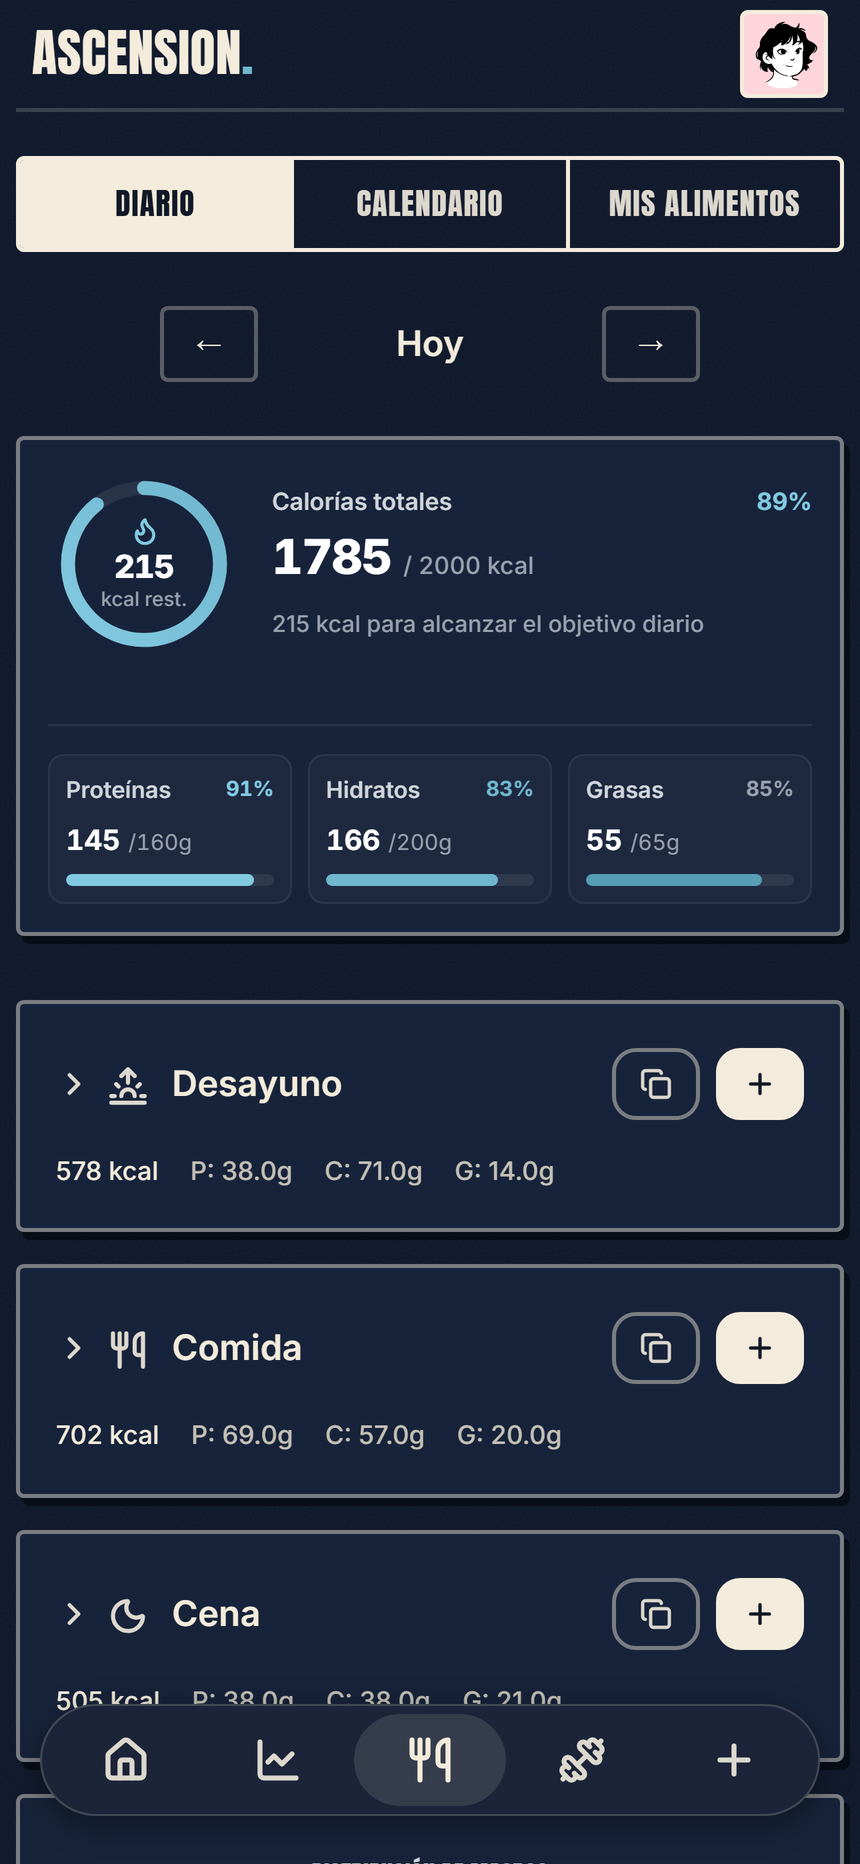
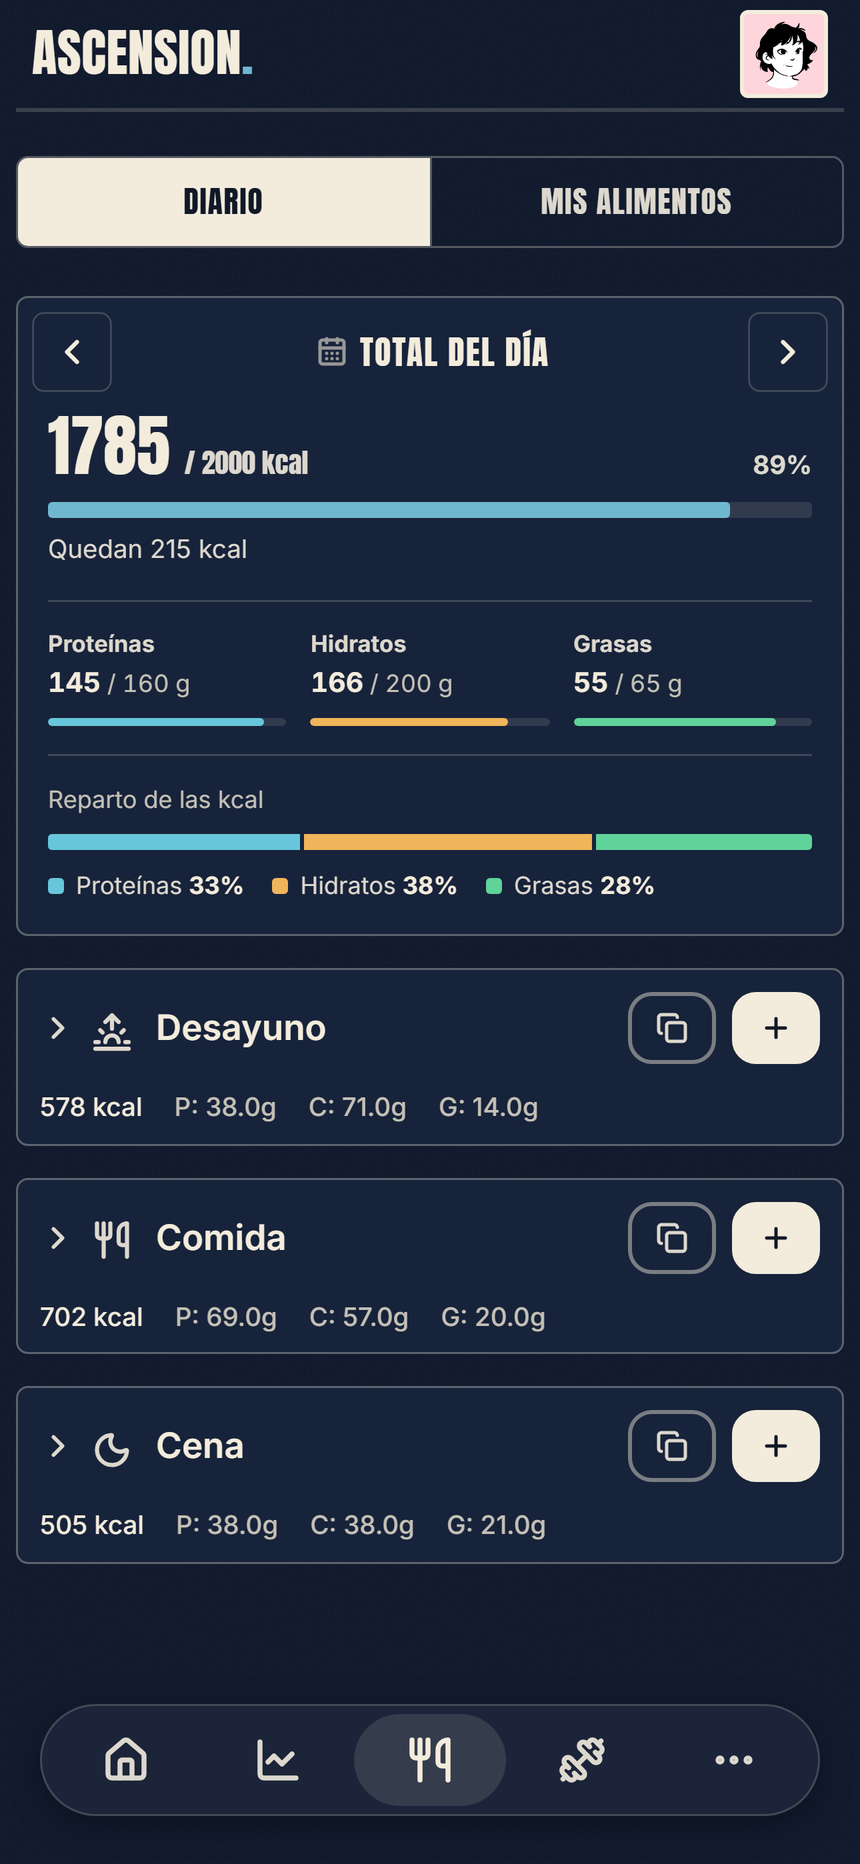
docs: capturas actualizadas y script adaptado a la interfaz actual (#329)
Las capturas del README estaban hechas con una interfaz anterior.

- Nueve capturas móviles nuevas y portada (`hero.jpg`) regenerada.
- `capture.mjs` adaptado al inicio actual, al flujo de empezar entreno y
al panel de entrenador (nuevos endpoints simulados).
- «Hoy» pasa a ser el jueves de la semana en curso, para que la semana
enseñe varios días con registros.
- Textos del README y de `docs/screenshots/README.md` ajustados a lo que
muestran las capturas.

diff --git a/README.md b/README.md
@@ -11,6 +11,7 @@ Aplicación full-stack con Java y React: desde el registro de una serie en el gi
 [![Abrir la app](https://img.shields.io/badge/Abrir_la_app-ascension.raclos.es-f2c94c?style=for-the-badge&logo=googlechrome&logoColor=black)](https://ascension.raclos.es)
 
 **Demo sin registro:** [ascension.raclos.es/demo](https://ascension.raclos.es/demo) (atleta) y [/demo/entrenador](https://ascension.raclos.es/demo/entrenador) (panel de entrenador), con datos ficticios.
+
 [![CI](https://img.shields.io/github/actions/workflow/status/RaclosDev/ascension-tracker/ci.yml?branch=main&style=for-the-badge&label=CI&logo=githubactions&logoColor=white)](https://github.com/RaclosDev/ascension-tracker/actions/workflows/ci.yml)
 
 ![Java](https://img.shields.io/badge/Java_21-ED8B00?style=flat-square&logo=openjdk&logoColor=white)
@@ -35,7 +36,7 @@ Aplicación full-stack con Java y React: desde el registro de una serie en el gi
     <td align="center" width="33%"><img src="docs/screenshots/nutrition.png" alt="Diario de nutrición con calorías y macronutrientes" width="240"><br><sub><b>Nutrición</b> · calorías y macros del día</sub></td>
   </tr>
   <tr>
-    <td align="center"><img src="docs/screenshots/coach.png" alt="Inicio del entrenador con seguimientos por responder, atletas por revisar y tareas pendientes" width="240"><br><sub><b>Entrenador</b> · qué necesita atención</sub></td>
+    <td align="center"><img src="docs/screenshots/coach.png" alt="Inicio del entrenador con las semanas por entregar, el último registro de cada atleta y los seguimientos por responder" width="240"><br><sub><b>Entrenador</b> · qué vence esta semana</sub></td>
     <td align="center"><img src="docs/screenshots/coach-clients.png" alt="Listado de atletas con búsqueda y acceso a su ficha" width="240"><br><sub><b>Atletas</b> · una ficha para cada persona</sub></td>
     <td align="center"><img src="docs/screenshots/coach-review.png" alt="Ficha de una atleta con sus pestañas y el seguimiento semanal pendiente de respuesta" width="240"><br><sub><b>Ficha de atleta</b> · seguimiento y respuesta semanal</sub></td>
   </tr>

diff --git a/docs/screenshots/README.md b/docs/screenshots/README.md
@@ -8,7 +8,7 @@ Las capturas del README muestran la interfaz React real con la sesión iniciada 
 - [nutrition.png](nutrition.png): diario con calorías y macronutrientes.
 - [training.png](training.png): resumen de entreno con recuperación muscular y actividad.
 - [workout.png](workout.png): entreno en curso con series completadas.
-- [coach.png](coach.png): inicio del entrenador con seguimientos por responder, atletas por revisar y tareas pendientes.
+- [coach.png](coach.png): inicio del entrenador con las semanas por entregar, el último registro de cada atleta y los seguimientos por responder.
 - [coach-clients.png](coach-clients.png): lista de atletas con búsqueda y acceso a su ficha.
 - [coach-review.png](coach-review.png): ficha de una atleta en la pestaña de seguimientos, con el seguimiento semanal por responder.
 - [hero.jpg](hero.jpg): composición de la cabecera a partir de `workout`, `coach` y `nutrition`.
@@ -34,7 +34,7 @@ node docs/screenshots/capture.mjs
 node docs/screenshots/capture.mjs http://localhost:5181
 ```
 
-El script sobrescribe las nueve capturas PNG. Solo permite conexiones externas a Google Fonts y a las miniaturas públicas de ejercicios; el resto se bloquea. La sesión y los ajustes salen de las fixtures de `frontend/tests/helpers`; los datos de demo están en el propio script. Las fechas se calculan con respecto al día de ejecución para que los resúmenes semanales y las revisiones sigan siendo visibles.
+El script sobrescribe las nueve capturas PNG. Solo permite conexiones externas a Google Fonts y a las miniaturas públicas de ejercicios; el resto se bloquea. La sesión y los ajustes salen de las fixtures de `frontend/tests/helpers`; los datos de demo están en el propio script. Las fechas se calculan con respecto al jueves de la semana de ejecución, para que la semana en curso enseñe varios días con registros y las revisiones sigan siendo visibles.
 
 Esta comprobación cubre el renderizado del frontend con fixtures, no la autenticación real, la persistencia del backend ni la entrega de correo o notificaciones.
 
